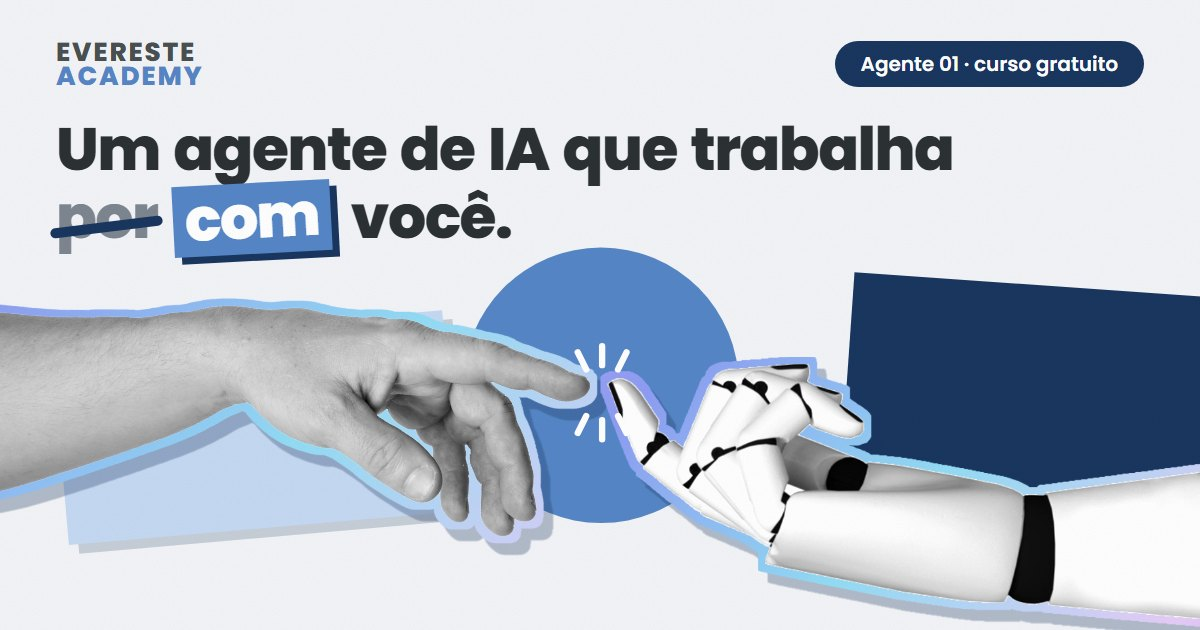
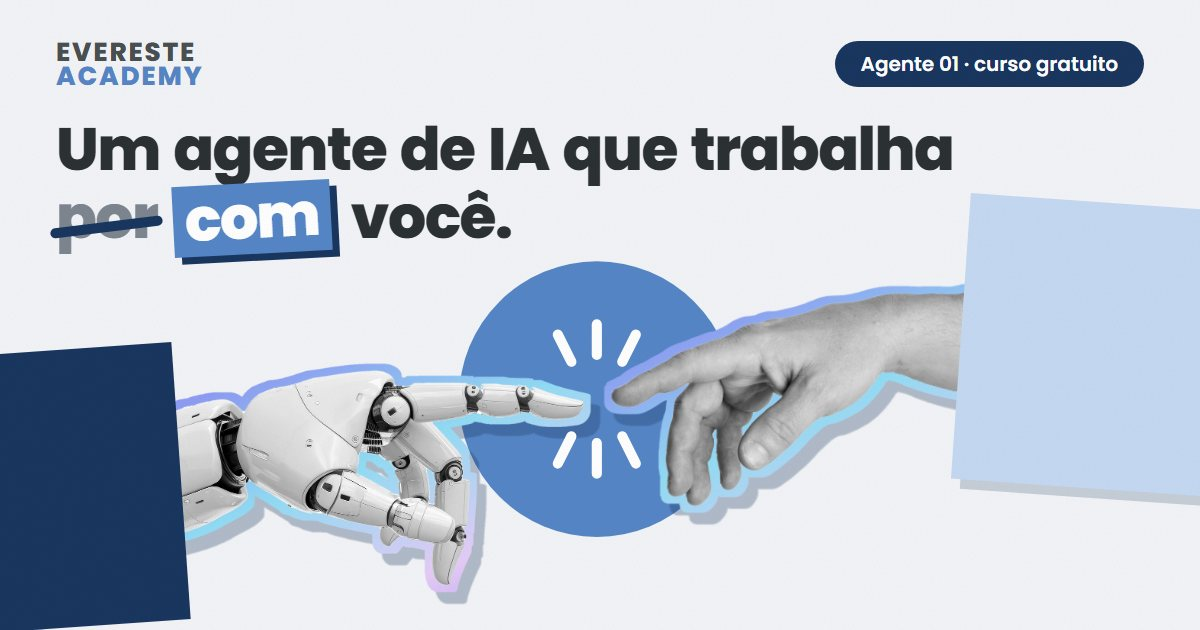
Academy: mãos na pose da Criação de Adão
Robô sobe da esquerda, mão humana desce da direita com o indicador estendido.
Prévia do link atualizada.

diff --git a/academy/index.html b/academy/index.html
@@ -118,31 +118,30 @@ h2 { font-size: clamp(28px, 5vw, 46px); line-height: 1.1; }
 @keyframes traca { from { stroke-dashoffset: 1; } }
 
 /* a colagem: cena de 1080×440 escalada por --k (o script ajusta pela largura da tela); os braços saem pelas bordas.
-   A ponta do indicador humano fica em (526, 205). */
+   Pose da Criação de Adão: o robô sobe da esquerda e a mão humana desce da direita. */
 .palco { position: relative; margin-top: clamp(30px, 5vw, 52px); height: calc(440px * var(--k, 0.62)); overflow-x: clip; }
 .cena { position: absolute; left: 50%; top: 0; width: 1080px; height: 440px; margin-left: -540px; transform: scale(var(--k, 0.62)); transform-origin: 50% 0; }
 .cena > * { position: absolute; }
-.folha { left: 30px; top: 104px; width: 370px; height: 226px; background: #c5d9f2; box-shadow: 9px 9px 0 rgba(25, 54, 95, 0.2); filter: url(#rasgo); rotate: -5deg; --de: -560px; animation: entra-x 0.4s steps(4) 0.2s both, ferve 1.2s steps(1) 1s infinite; }
-.painel { left: 770px; top: 112px; width: 400px; height: 276px; background: var(--marinho); filter: url(#rasgo); rotate: 4deg; --de: 560px; animation: entra-x 0.4s steps(4) 0.3s both, ferve 1.2s steps(1) 1.3s infinite; }
-.disco { left: 351px; top: 15px; width: 380px; height: 380px; border-radius: 50%; background: var(--azul); filter: url(#rasgo); animation: pop 0.5s steps(5) 0.3s both; }
-.fita { left: 150px; top: 302px; width: 124px; height: 30px; background: repeating-linear-gradient(90deg, var(--marinho) 0 10px, #2c4f83 10px 20px); rotate: -9deg; animation: pop 0.3s steps(3) 0.7s both; }
+/* os papéis ficam por cima dos braços: cada braço sai de trás de um */
+.folha { left: 880px; top: 38px; width: 420px; height: 270px; background: #c5d9f2; box-shadow: 9px 9px 0 rgba(25, 54, 95, 0.2); filter: url(#rasgo); rotate: 4deg; --de: 560px; animation: entra-x 0.4s steps(4) 0.2s both, ferve 1.2s steps(1) 1s infinite; }
+.painel { left: -90px; top: 172px; width: 235px; height: 262px; background: var(--marinho); filter: url(#rasgo); rotate: -4deg; --de: -560px; animation: entra-x 0.4s steps(4) 0.3s both, ferve 1.2s steps(1) 1.3s infinite; }
+.disco { left: 351px; top: 28px; width: 380px; height: 380px; border-radius: 50%; background: var(--azul); filter: url(#rasgo); animation: pop 0.5s steps(5) 0.3s both; }
+.fita { left: 900px; top: 292px; width: 124px; height: 30px; background: repeating-linear-gradient(90deg, var(--marinho) 0 10px, #2c4f83 10px 20px); rotate: 8deg; animation: pop 0.3s steps(3) 0.7s both; }
 @keyframes entra-x { from { translate: var(--de) 0; } to { translate: 0 0; } }
 @keyframes pop { 0% { scale: 0; } 55% { scale: 1.12; } 80% { scale: 0.96; } 100% { scale: 1; } }
 @keyframes ferve { 0% { translate: 0 0; } 25% { translate: 1px -1px; } 50% { translate: -1px 1px; } 75% { translate: 1px 1px; } }
 .mao { filter: drop-shadow(9px 11px 0 rgba(25, 54, 95, 0.3)); animation: chega 0.9s steps(9) both, respira 2.4s steps(8) infinite alternate; }
 @keyframes chega { 0% { translate: var(--dx) var(--dy); } 45% { translate: calc(var(--dx) * 0.25) calc(var(--dy) * 0.25); } 75% { translate: calc(var(--dx) * 0.06) calc(var(--dy) * 0.06); } 100% { translate: 0 0; } }
 @keyframes respira { from { translate: 0 0; } to { translate: var(--rx) 0; } }
-.humana { left: -63px; top: -119px; width: 640px; height: 540px; --dx: -640px; --dy: -210px; --rx: -4px; --sobra: -15.9px; --m: url("img/mao-humana-contorno.webp"); --f: url("img/mao-humana-capa.webp"); animation-delay: 0.3s, 2s; }
-.robo { left: 524px; top: -13px; width: 640px; height: 640px; --dx: 660px; --dy: 90px; --rx: 4px; --sobra: -19.2px; --m: url("img/mao-robotica-contorno.webp"); --f: url("img/mao-robotica-capa.webp"); animation-delay: 0.4s, 2s; }
+.humana { left: 550px; top: 78px; width: 520px; height: 241px; --dx: 660px; --dy: -120px; --rx: 4px; --sobra: -12.6px; --m: url("img/mao-humana-direita-contorno.webp"); --f: url("img/mao-humana-direita-capa.webp"); animation-delay: 0.4s, 2s; }
+.robo { left: -15px; top: 191px; width: 540px; height: 231px; --dx: -640px; --dy: 60px; --rx: -4px; --sobra: -10.8px; --m: url("img/mao-robotica-esquerda-contorno.webp"); --f: url("img/mao-robotica-esquerda-capa.webp"); animation-delay: 0.3s, 2s; }
 .mao .giro { position: absolute; inset: 0; }
-.humana .giro { transform-origin: 92% 60%; rotate: -14deg; }
-.robo .giro { rotate: -90deg; }
 /* contorno do recorte no gradiente holográfico: a silhueta engordada serve de máscara */
 .mao .holo { position: absolute; inset: var(--sobra); background: linear-gradient(100deg, #93ddf5, #8e9df3, #a991f1, #e6cdf8, #93ddf5, #c3b1f7, #8e9df3, #93ddf5) 0 0 / 130% 100%; -webkit-mask: var(--m) center / 100% 100% no-repeat; mask: var(--m) center / 100% 100% no-repeat; animation: brilho 3.6s steps(12) infinite alternate; }
 @keyframes brilho { to { background-position: 100% 0; } }
 .mao img { position: absolute; inset: 0; width: 100%; height: 100%; }
 .mao .reticula { position: absolute; inset: 0; background: radial-gradient(rgba(25, 54, 95, 0.6) 1.1px, transparent 1.5px) 0 0 / 7px 7px; mix-blend-mode: multiply; opacity: 0.4; -webkit-mask: var(--f) center / 100% 100% no-repeat; mask: var(--f) center / 100% 100% no-repeat; }
-.faisca { left: 461px; top: 132px; width: 160px; height: 160px; animation: pop 0.3s steps(3) 1.4s both, pisca 1.2s steps(1) 2s infinite; }
+.faisca { left: 457px; top: 138px; width: 160px; height: 160px; animation: pop 0.3s steps(3) 1.4s both, pisca 1.2s steps(1) 2s infinite; }
 @keyframes pisca { 0%, 60% { opacity: 1; } 30% { opacity: 0.7; } }
 .boia { animation: boia 2.4s steps(6) infinite; }
 @keyframes boia { 0%, 100% { transform: translateY(6px) rotate(-3deg); } 50% { transform: translateY(-6px) rotate(3deg); } }
@@ -313,12 +312,12 @@ body::after { content: ""; position: fixed; inset: 0; z-index: 50; pointer-event
     </div>
     <div class="palco" aria-hidden="true">
       <div class="cena">
-        <span class="folha"></span>
-        <span class="painel"></span>
         <span class="disco"></span>
+        <div class="mao robo"><div class="giro"><span class="holo"></span><img src="img/mao-robotica-esquerda-capa.webp" alt="" width="900" height="385"><span class="reticula"></span></div></div>
+        <div class="mao humana"><div class="giro"><span class="holo"></span><img src="img/mao-humana-direita-capa.webp" alt="" width="900" height="417"><span class="reticula"></span></div></div>
+        <span class="painel"></span>
+        <span class="folha"></span>
         <span class="fita"></span>
-        <div class="mao humana"><div class="giro"><span class="holo"></span><img src="img/mao-humana-capa.webp" alt="" width="900" height="760"><span class="reticula"></span></div></div>
-        <div class="mao robo"><div class="giro"><span class="holo"></span><img src="img/mao-robotica-capa.webp" alt="" width="900" height="900"><span class="reticula"></span></div></div>
         <svg class="faisca" viewBox="0 0 100 100" fill="none" stroke="#fff" stroke-width="6" stroke-linecap="round"><path d="M50 6v18M27 12l8 16M73 12l-8 16M50 76v18M27 88l8-16M73 88l-8-16"/></svg>
       </div>
     </div>
